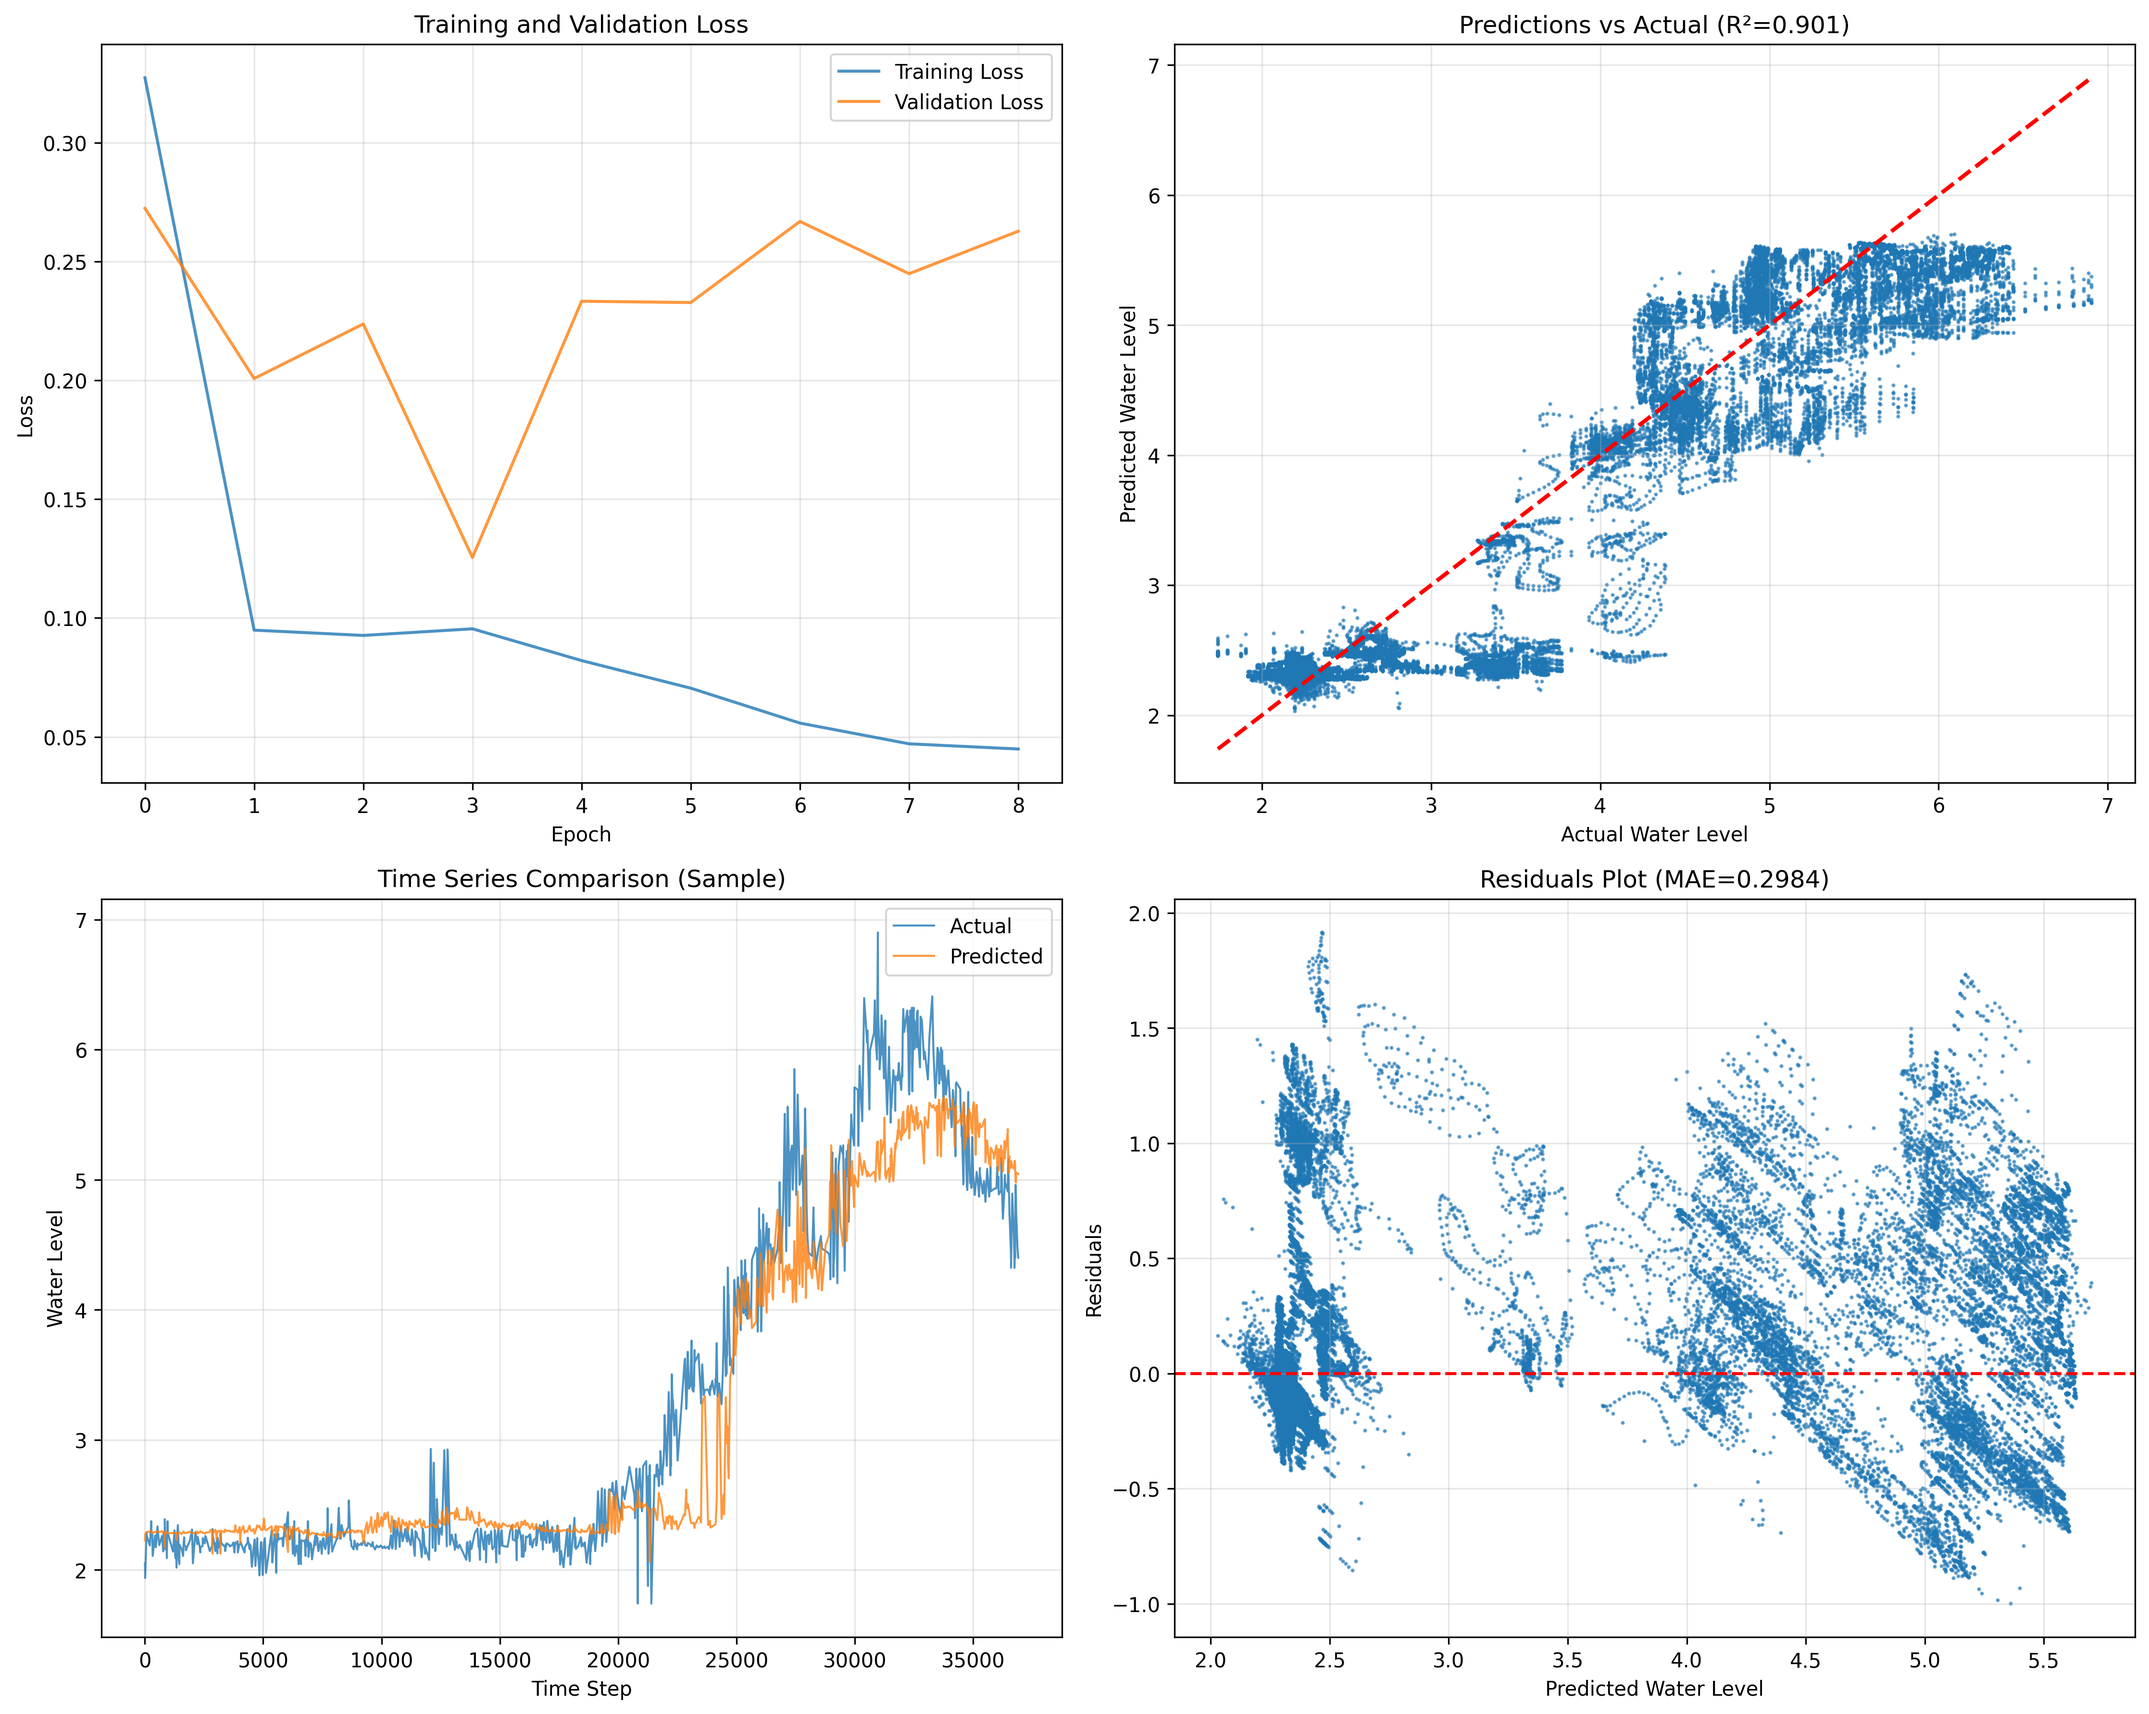
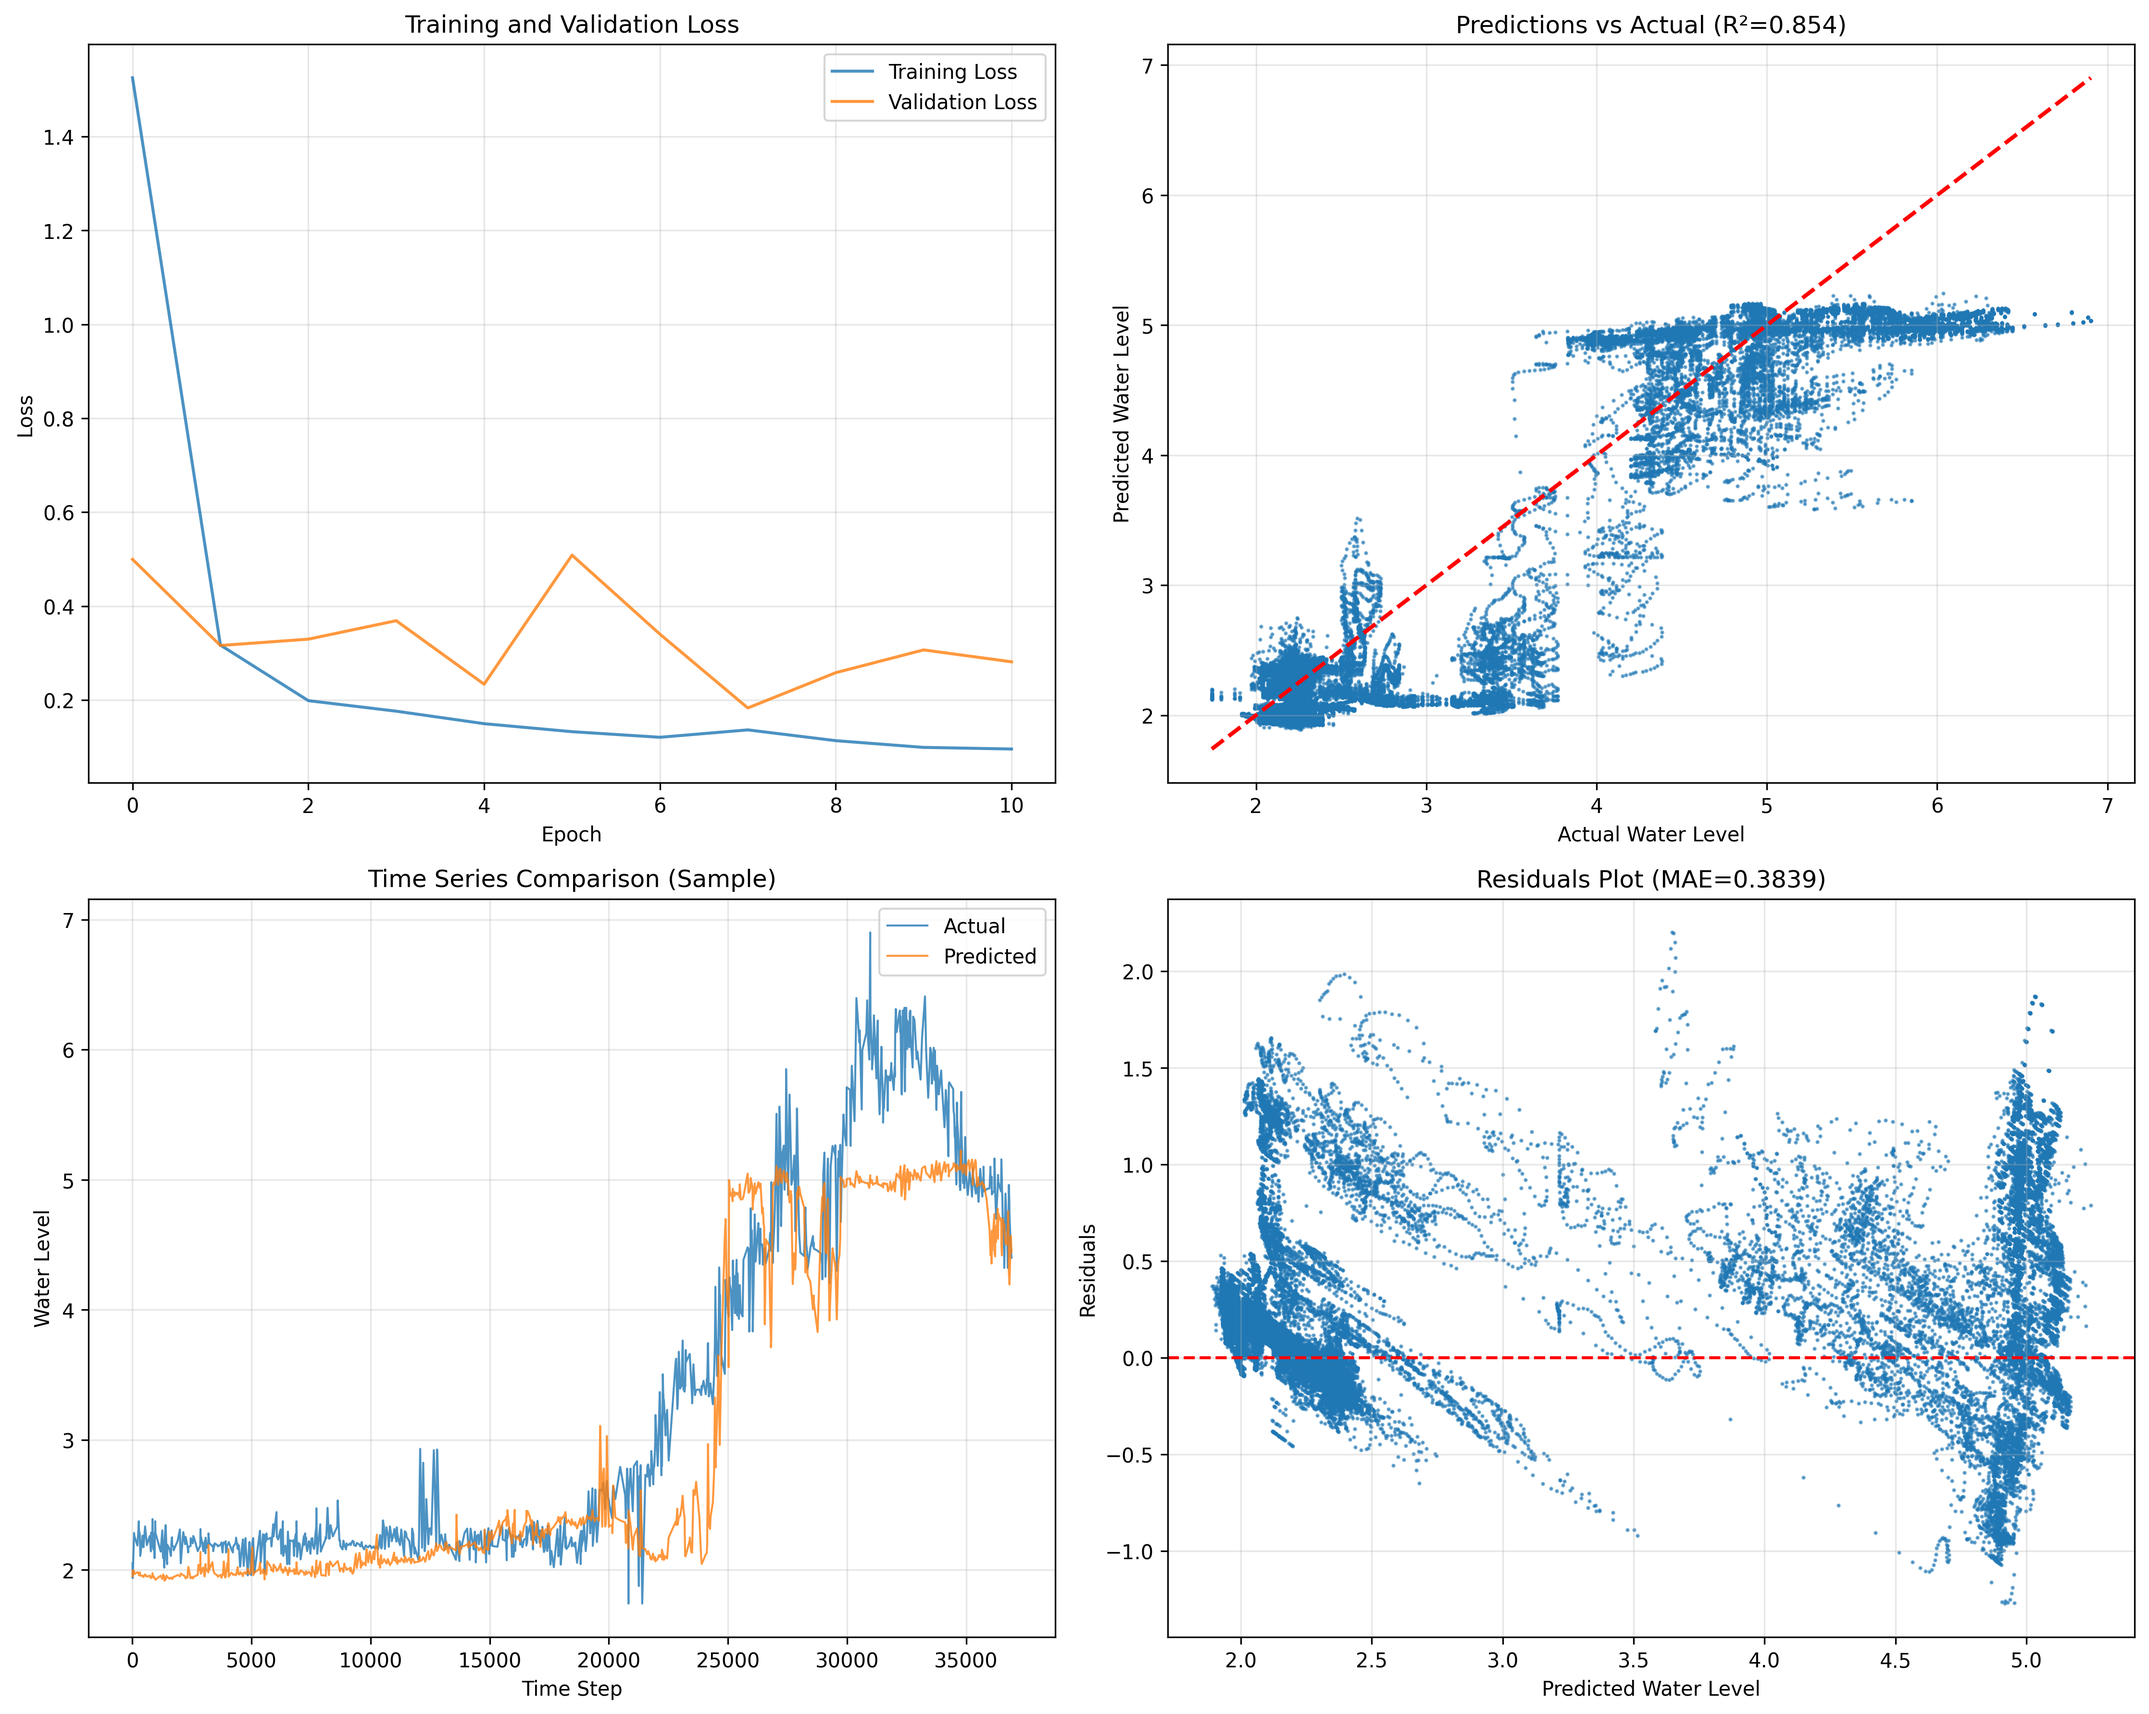
tests

diff --git a/owf-tstool-ai-training/models_to_train/training_warmup.py b/owf-tstool-ai-training/models_to_train/training_warmup.py
@@ -339,10 +339,6 @@ def main():
         dropout=0.4
     ).to(device)
     
-    # Initialize optimizer and loss
-    criterion = create_model_with_proper_loss()
-    optimizer = optim.AdamW(model.parameters(), lr=0.001, weight_decay=1e-4)
-    scheduler = optim.lr_scheduler.CosineAnnealingLR(optimizer, T_max=50, eta_min=1e-6)
     
     # Training parameters
     num_epochs = 60
@@ -352,6 +348,25 @@ def main():
     best_metrics = None
     patience = 3
     patience_counter = 0
+    
+    # Initialize optimizer and loss
+    criterion = create_model_with_proper_loss()
+    optimizer = optim.AdamW(model.parameters(), lr=0.001, weight_decay=1e-4)
+    # Warm-up for 5 epochs
+    warmup_epochs = 5
+    main_epochs = num_epochs - warmup_epochs
+
+    warmup_scheduler = optim.lr_scheduler.LinearLR(optimizer, start_factor=0.1, total_iters=warmup_epochs)
+    cosine_scheduler = optim.lr_scheduler.CosineAnnealingLR(optimizer, T_max=main_epochs, eta_min=1e-6)
+
+    scheduler = optim.lr_scheduler.SequentialLR(
+        optimizer,
+        schedulers=[warmup_scheduler, cosine_scheduler],
+        milestones=[warmup_epochs]
+    )
+
+    
+    
     
     print("Starting training...")
     for epoch in range(num_epochs):

diff --git a/owf-tstool-ai-training/models_to_train/training_diffrent_paremters.py b/owf-tstool-ai-training/models_to_train/training_diffrent_paremters.py
@@ -71,7 +71,7 @@ class MultiHeadAttention(nn.Module):
 
 class ImprovedWaterLevelModel(nn.Module):
     """Improved water level forecasting model with attention and residual connections"""
-    def __init__(self, weather_features, hidden_size=128, num_layers=3, dropout=0.4):
+    def __init__(self, weather_features, hidden_size=96, num_layers=2, dropout=0.5):
         super().__init__()
         
         self.weather_features = weather_features
@@ -334,14 +334,14 @@ def main():
     
     model = ImprovedWaterLevelModel(
         weather_features=len(feature_names),
-        hidden_size=128,
-        num_layers=3,
-        dropout=0.4
+        hidden_size=96,
+        num_layers=2,
+        dropout=0.5
     ).to(device)
     
     # Initialize optimizer and loss
     criterion = create_model_with_proper_loss()
-    optimizer = optim.AdamW(model.parameters(), lr=0.001, weight_decay=1e-4)
+    optimizer = optim.AdamW(model.parameters(), lr=0.0005, weight_decay=1e-3)
     scheduler = optim.lr_scheduler.CosineAnnealingLR(optimizer, T_max=50, eta_min=1e-6)
     
     # Training parameters
